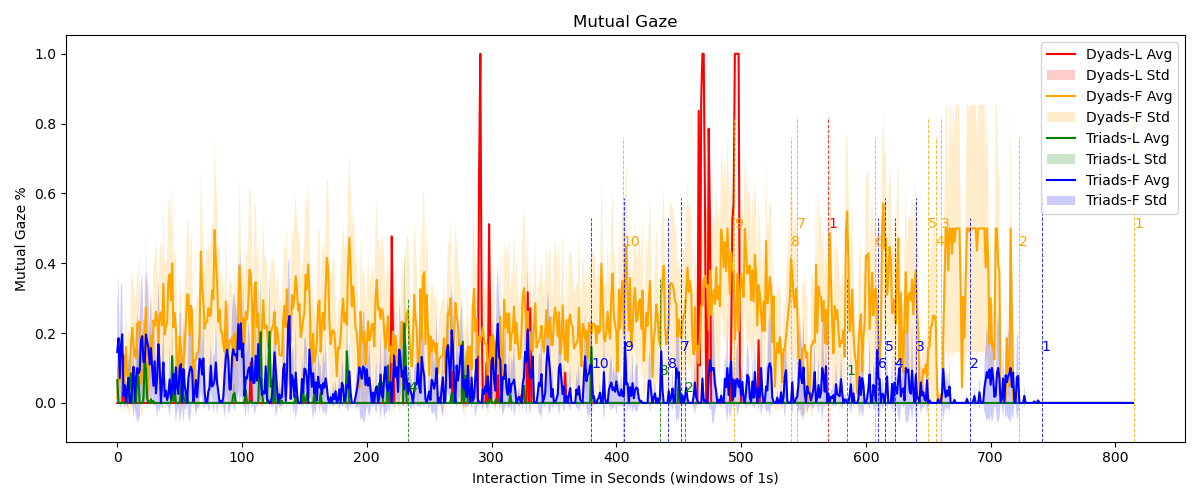
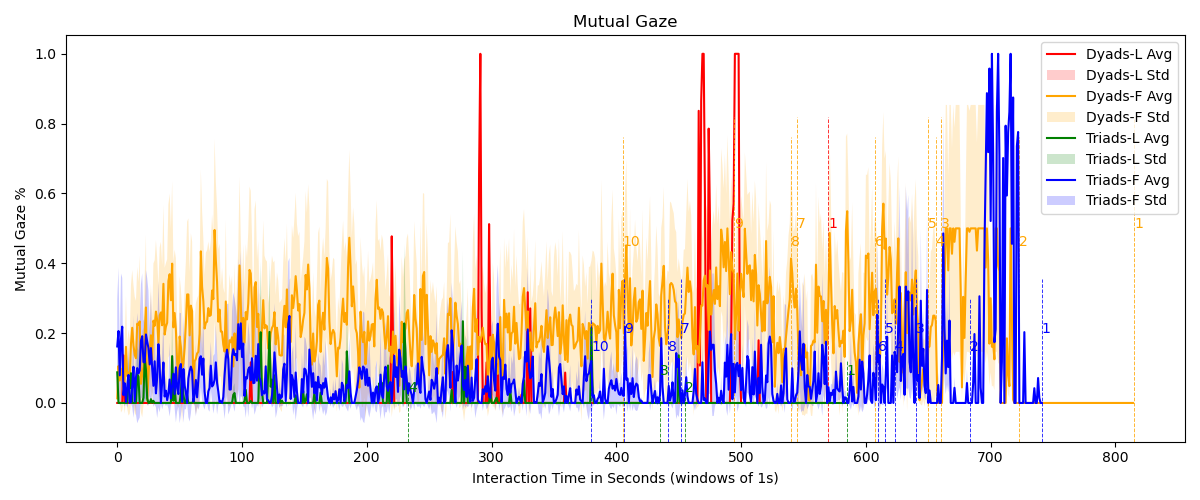
uploaded new graphs for 1s and for the new calculation of triads info; soon I'll remove the prev calculation

diff --git a/plotting/plotting_eye_data.py b/plotting/plotting_eye_data.py
@@ -196,6 +196,6 @@ if __name__ == "__main__":
     root_path= "../Recordings/SavedData/"
     all_groups_MG_df_path = root_path+"all_groups_mutual_gaze_interaction_time.csv"
 
-    create_line_plot(all_groups_MG_df_path, dyads=False, timewindow=10, separate_by_group_formation=True,
+    create_line_plot(all_groups_MG_df_path, timewindow=20, separate_by_group_formation=True,
                      y_axis_text="Mutual Gaze %",
                      figure_title="Mutual Gaze")
